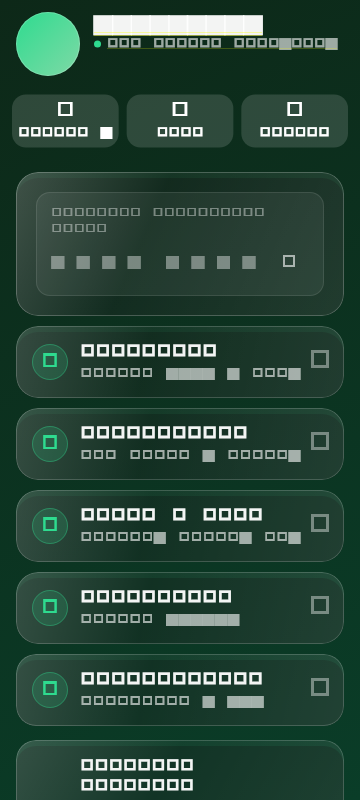
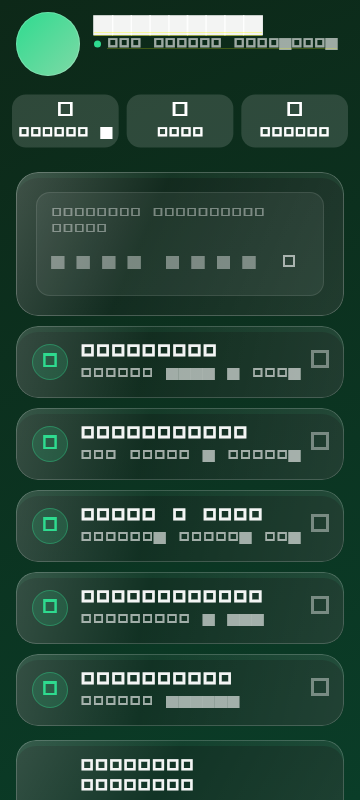
Islands stop hovering, and the folder bar stops being a slab
Three asked-for changes to the surface.

**The shadows are gone.** Every island carried a pair of drop shadows —
a close contact one and a wider ambient one — so panes appeared to float.
On a backdrop this dark that reads less as height than as grime: each
island wears a soft black halo, and where two sit near each other the
halos overlap. `FloatingGlass.shadows` is now an empty list rather than
deleted, because it is the only thing keeping every surface in agreement;
put shadows back there if they ever return.

`bar_glass.dart` had its own hand-copied pair, which is exactly the drift
the comment in FloatingGlass warned about and did not prevent — the copy
was out of sight of the warning. It now uses the shared list.

**The folder bar was 40 points tall.** It is a filter above the list, not
a second header, and the labels were never what made it large; the space
around them was. 34 points, tab padding 13 → 10, vertical margin 4 → 3.

**Customisation moved above the App group.** What is behind it — colours,
interface size, the nav bar — is what somebody opening this screen is
usually after; language, storage and the version are things you visit
once.

That last one broke `profile_cover_test`, correctly: the App group is now
below the fold of a test viewport and a sliver does not build what is not
visible. Scrolled to instead of expected on screen, which is the stronger
check anyway — it proves the group is in the sliver, which is what the
[…]

Changed region(s): [[0.4278, 0.8438, 0.7333, 0.9062], [0.4278, 0.7188, 0.7333, 0.7812]]

diff --git a/lib/features/chats/presentation/chats_list_screen.dart b/lib/features/chats/presentation/chats_list_screen.dart
@@ -1685,7 +1685,13 @@ class _FolderFilterIsland extends StatelessWidget {
   /// The capsule itself. The pinned header adds the padding around it — see
   /// [_PinnedFolderFilterHeader.height], which has to agree with this or the
   /// bar is clipped or floats.
-  static const double barHeight = 40;
+  ///
+  /// Thirty-four, down from forty. This is a filter above the list, not a
+  /// second header, and at forty it read as a slab across the top of the
+  /// screen — "остров сильно большой". The labels were already small; what
+  /// made it large was the space around them, so that is what came off, here
+  /// and in the tab padding below.
+  static const double barHeight = 34;
 
   /// The name on a tab. Small on purpose: these are labels on a filter, and at
   /// the size of a heading they competed with the chat names underneath.
@@ -1833,28 +1839,30 @@ class _FolderIslandTab extends StatelessWidget {
     final color =
         spec.active ? AppColors.brandPrimary : AppColors.textOnGlassDim;
     return Padding(
-      padding: const EdgeInsets.symmetric(horizontal: 2, vertical: 4),
+      padding: const EdgeInsets.symmetric(horizontal: 2, vertical: 3),
       child: Material(
         color: Colors.transparent,
         child: InkWell(
-          borderRadius: BorderRadius.circular(16),
+          borderRadius: BorderRadius.circular(14),
           onTap: spec.onTap,
           child: AnimatedContainer(
             duration: const Duration(milliseconds: 180),
             curve: Curves.easeOutCubic,
-            padding: const EdgeInsets.symmetric(horizontal: 13),
+            // Tighter than it was, for the reason in [barHeight]: the labels
+            // were never the size problem, the padding was.
+            padding: const EdgeInsets.symmetric(horizontal: 10),
             alignment: Alignment.center,
             decoration: BoxDecoration(
               color: spec.active
                   ? AppColors.brandPrimary.withValues(alpha: 0.18)
                   : Colors.transparent,
-              borderRadius: BorderRadius.circular(16),
+              borderRadius: BorderRadius.circular(14),
             ),
             child: Text(
               spec.label,
               maxLines: 1,
               overflow: TextOverflow.ellipsis,
-              // Not scaled: the bar is a fixed 40 points and the tabs are
+              // Not scaled: the bar is a fixed height and the tabs are
               // measured to decide whether they fit, so a text scaler would
               // both overflow the capsule and invalidate the measurement.
               textScaler: TextScaler.noScaling,

diff --git a/lib/core/widgets/floating_glass.dart b/lib/core/widgets/floating_glass.dart
@@ -71,27 +71,23 @@ class FloatingGlass extends StatelessWidget {
   /// still belong to the InkWell.
   final void Function(Offset globalPosition)? onLongPressAt;
 
-  /// The pair of shadows that makes a pane hover: a close contact shadow and a
-  /// slightly wider ambient one, both pulled in with negative spread.
+  /// What sits behind an island: nothing.
   ///
-  /// Exposed because not every island can be a [FloatingGlass]. A chat bubble
-  /// has to keep its own sender colour, so it builds its own surface — but it
-  /// must levitate *identically*, and two hand-tuned shadow lists would drift
-  /// apart the first time either is touched.
-  static List<BoxShadow> get shadows => [
-        BoxShadow(
-          color: Colors.black.withValues(alpha: 0.50),
-          blurRadius: 10,
-          offset: const Offset(0, 4),
-          spreadRadius: -4,
-        ),
-        BoxShadow(
-          color: Colors.black.withValues(alpha: 0.30),
-          blurRadius: 20,
-          offset: const Offset(0, 8),
-          spreadRadius: -14,
-        ),
-      ];
+  /// It used to be a pair of drop shadows — a close contact one and a wider
+  /// ambient one, both pulled in with negative spread — so every pane appeared
+  /// to hover. On a dark backdrop that reads less as height and more as grime:
+  /// each island carries a soft black halo, they overlap wherever two panes sit
+  /// near each other, and the folder row in particular ends up ringed. Asked
+  /// for and removed; the panes are separated by their fill and their border,
+  /// which is enough on a background this dark.
+  ///
+  /// Kept as a named, shared, empty list rather than deleted, because it is the
+  /// only reason every surface agrees. Not every island can be a
+  /// [FloatingGlass] — a chat bubble keeps its own sender colour and builds its
+  /// own surface — and the last time this was duplicated by hand the copy in
+  /// `bar_glass.dart` drifted out of sight of this comment saying not to. Put
+  /// shadows back *here* if they ever return.
+  static const List<BoxShadow> shadows = <BoxShadow>[];
 
   @override
   Widget build(BuildContext context) {

diff --git a/lib/features/profile/presentation/profile_screen.dart b/lib/features/profile/presentation/profile_screen.dart
@@ -168,6 +168,20 @@ class _ProfileScreenState extends ConsumerState<ProfileScreen>
 
         const SizedBox(height: 10),
 
+        // Customisation above the app group, not below it. What is behind
+        // this row — the colours, the interface size, the nav bar — is what
+        // somebody opening this screen is usually looking for; the group under
+        // it is language, storage and the version, which are things you go to
+        // once. Asked for directly, and the order now matches how often each
+        // is wanted.
+        //
+        // One row, not a group with a single row in it named the same thing.
+        // None of what it holds is a preference picked from a list; they are
+        // the shape of the app, arranged on a screen with room to do it.
+        _CustomizeRow(summary: _customizeSummary(ref, t)),
+
+        const SizedBox(height: 10),
+
         _ExpandableSection(
           icon: Icons.tune_rounded,
           title: t.profileGroupApp,
@@ -183,14 +197,6 @@ class _ProfileScreenState extends ConsumerState<ProfileScreen>
             const _AboutRow(),
           ],
         ),
-
-        const SizedBox(height: 10),
-
-        // One row, not a group with a single row in it named the same thing.
-        // The colours, the interface size and the nav bar all live behind it —
-        // none of them is a preference picked from a list, they are the shape
-        // of the app, and they are arranged on a screen with room to do it.
-        _CustomizeRow(summary: _customizeSummary(ref, t)),
 
         const SizedBox(height: 14),
 

diff --git a/lib/core/widgets/bar_glass.dart b/lib/core/widgets/bar_glass.dart
@@ -5,6 +5,7 @@ import 'package:flutter/material.dart';
 import '../theme/colors.dart';
 import '../theme/glass.dart';
 import '../util/ui_activity.dart';
+import 'floating_glass.dart';
 
 /// The nav bar's pane of glass, on its own so anything else that has to look
 /// like the bar can *be* the bar rather than an approximation of it.
@@ -45,20 +46,10 @@ class BarGlass extends StatelessWidget {
     return DecoratedBox(
       decoration: BoxDecoration(
         borderRadius: BorderRadius.circular(radius),
-        boxShadow: [
-          BoxShadow(
-            color: Colors.black.withValues(alpha: 0.50),
-            blurRadius: 10,
-            offset: const Offset(0, 4),
-            spreadRadius: -4,
-          ),
-          BoxShadow(
-            color: Colors.black.withValues(alpha: 0.30),
-            blurRadius: 20,
-            offset: const Offset(0, 8),
-            spreadRadius: -14,
-          ),
-        ],
+        // Shared, not a second hand-tuned copy — which is what this was, and
+        // it is why the pair outlived the comment in FloatingGlass telling
+        // anyone editing them to keep the two in step.
+        boxShadow: FloatingGlass.shadows,
       ),
       child: ClipRRect(
         borderRadius: BorderRadius.circular(radius),

diff --git a/test/profile_cover_test.dart b/test/profile_cover_test.dart
@@ -72,6 +72,16 @@ void main() {
     // uppercase section labels this used to look for are gone with the layout
     // that needed them.
     expect(find.text(t.profileGroupConnection), findsOneWidget);
+    // Scrolled to rather than expected on screen: Customisation now sits above
+    // this group, which pushed it past the fold of a test viewport, and a
+    // sliver does not build what is not visible. Reaching it by scrolling is
+    // also the stronger check — it proves the group is in the sliver at all,
+    // which is what this test is about.
+    await tester.scrollUntilVisible(
+      find.text(t.profileGroupApp),
+      240,
+      scrollable: find.byType(Scrollable).first,
+    );
     expect(find.text(t.profileGroupApp), findsOneWidget);
   });
 

diff --git a/lib/core/util/app_build.dart b/lib/core/util/app_build.dart
@@ -16,11 +16,11 @@ library;
 ///
 /// Bumped by hand alongside pubspec, and `tool/build_apk.ps1` verifies the two
 /// agree before it will build.
-const String appVersion = '0.46.8';
+const String appVersion = '0.46.9';
 
 /// Which build, in words. Bumped for every APK that leaves this machine so a
 /// tester can say what they are running without reading a number.
 ///
 /// Verified inside `libapp.so` after every build — see `tool/build_apk.ps1`,
 /// which is what catches a build that silently reused an old snapshot.
-const String appBuildStamp = '2026-08-18-a-still-phone-says-less';
+const String appBuildStamp = '2026-08-18-islands-stop-hovering';
